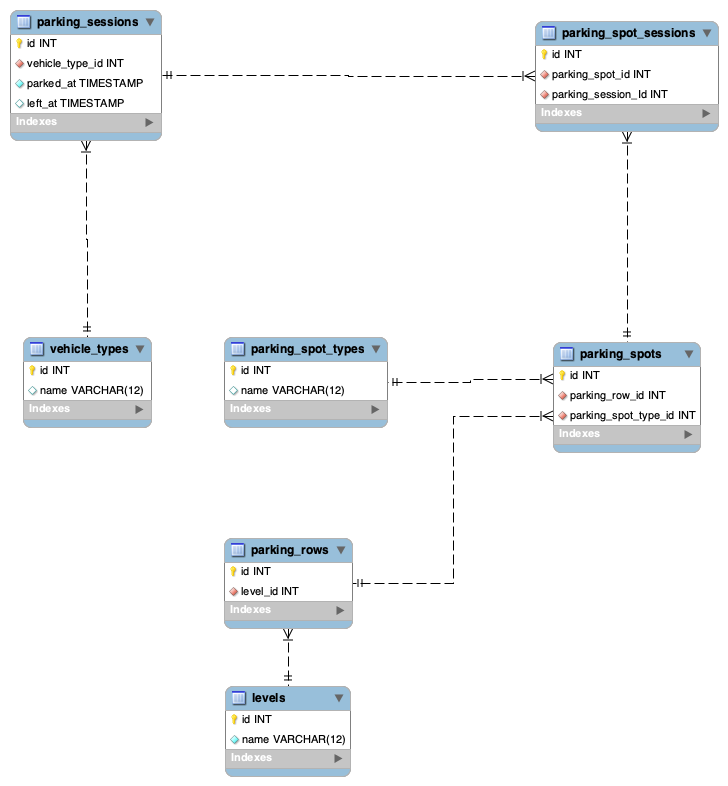
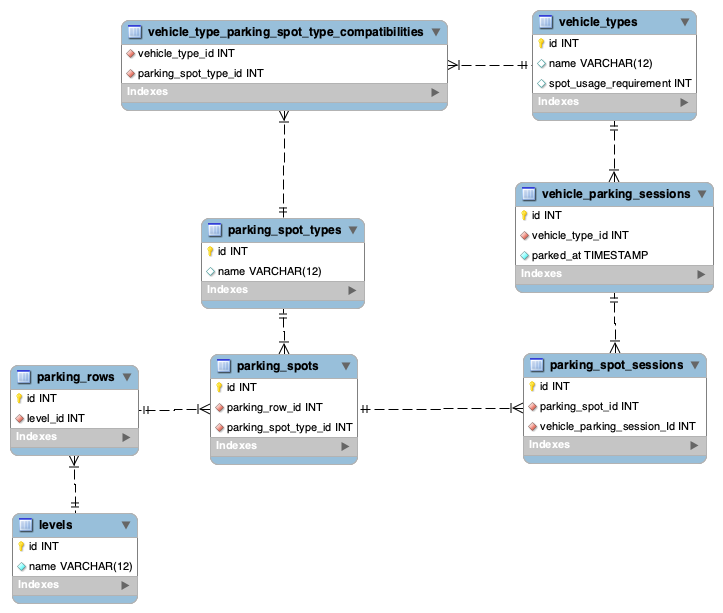
parking cars

diff --git a/main.py b/main.py
@@ -1,4 +1,6 @@
+from mysql.connector.connection import MySQLConnection
 from database_connection import DatabaseConnection
+from datetime import datetime
 
 from typing import Optional
 
@@ -25,3 +27,38 @@ def read_item():
     """
 
     return DatabaseConnection.run(query)
+
+# TODO: spot_usage_requirement? change name?
+@app.put("/park/{vehicle_type}")
+def update_item(vehicle_type: str):
+    vehicle_type_query = """
+    SELECT id, spot_usage_requirement FROM vehicle_types WHERE name = '{vehicle_type}'
+    """ .format(vehicle_type=vehicle_type);
+
+    vehicle_type_res = DatabaseConnection.run(vehicle_type_query);
+
+    vehicle_spot_usage_req = vehicle_type_res[0]['spot_usage_requirement'];
+    vehicle_type_id = vehicle_type_res[0]['id'];
+
+    parking_spots_query = """
+    SELECT parking_spots.id from parking_spots
+    LEFT JOIN parking_spot_sessions
+    ON parking_spots.id = parking_spot_sessions.parking_spot_id
+    WHERE parking_spot_sessions.vehicle_parking_session_id IS NULL
+    LIMIT {vehicle_spot_usage_req};
+    """.format(vehicle_spot_usage_req = vehicle_spot_usage_req);
+
+    parking_spots = DatabaseConnection.run(parking_spots_query);
+
+    vehicle_session_insert = """
+    INSERT INTO vehicle_parking_sessions (vehicle_type_id,parked_at)
+    VALUES({vehicle_type_id},CURRENT_TIMESTAMP);
+    """.format(vehicle_type_id = vehicle_type_id);
+    session_id = DatabaseConnection.insert(vehicle_session_insert);
+
+    for spot in parking_spots:
+        spot_session_insert = """
+        INSERT INTO parking_spot_sessions (parking_spot_id,vehicle_parking_session_id)
+        VALUES({spot_id}, {session_id});
+        """.format(spot_id = spot['id'], session_id = session_id)
+        DatabaseConnection.insert(spot_session_insert);

diff --git a/app/valet.py b/app/valet.py
@@ -1,4 +1,30 @@
-class Valet:
-    def park(vehicle_type):
-        puts("where should i park")
-        # if vehicle_type not in SUPPORTED_VEHICLE_TYPES raise error
+from database_connection import DatabaseConnection
+from datetime import datetime;
+
+def find_parking(vehicle_type):
+    query = """
+    SELECT parking_spots.id from parking_spots
+    LEFT JOIN parking_spot_sessions
+    ON parking_spots.id = parking_spot_sessions.parking_spot_id
+    WHERE parking_spot_sessions.parking_session_id IS NULL
+    LIMIT {size};
+    """.format(vehicle_type.SPOT_USAGE_REQ);
+
+    return DatabaseConnection.run(query)
+
+def park_vehicle(vehicle_type):
+    vehicle_type_query = """
+    SELECT id
+    FROM vehicle_types
+    WHERE name={vehicle_type}
+    LIMIT 1
+    """.format(vehicle_type = vehicle_type)
+
+    vehicle_type_id = DatabaseConnection(vehicle_type_query)
+
+    sql = """
+    INSERT INTO vehicle_parking_sessions COLUMNS('vehicle_type_id','parked_at')
+    VALUES({vehicle_type_id},NOW())
+    """.format(vehicle_type_id = vehicle_type_id)
+
+    return DatabaseConnection(sql);

diff --git a/database_connection.py b/database_connection.py
@@ -16,5 +16,21 @@ class DatabaseConnection:
                 res.append(db)
           return res
     except Error as e:
-        print("Has error")
+        print("Error getting record(s)")
+        print(e)
+
+  def insert(statement):
+    try:
+      with connect(
+          host='127.0.0.1',
+          user='root',
+          password='rootroot',
+          database='parking_garage',
+      ) as connection:
+          with connection.cursor(dictionary=True) as cursor:
+              cursor.execute(statement)
+              connection.commit();
+              return cursor.lastrowid;
+    except Error as e:
+        print("Error inserting record(s)")
         print(e)

diff --git a/scripts/valet_runner.py b/scripts/valet_runner.py
@@ -1,4 +1,4 @@
-from app.vehicle import *;
+from app import valet;
 import random;
 import time;
 from datetime import datetime
@@ -8,7 +8,10 @@ def around_business_hours():
 
 def get_vehicle():
     # retrieve from db or, if around_business_hours(), get new one
-    random.choice(Motorcycle(),Car(),Bus());
+    query = """
+    
+    """
+    random.choice(['motorcycle','car','bus']);
 
 while True:
     now = datetime.now();
@@ -22,6 +25,7 @@ while True:
 
     if choice == 'park':
         print(nowStr + "parking");
+        valet.park_vehicle('car');
     elif choice == 'leave':
         print(nowStr + "leaving");
     else:
